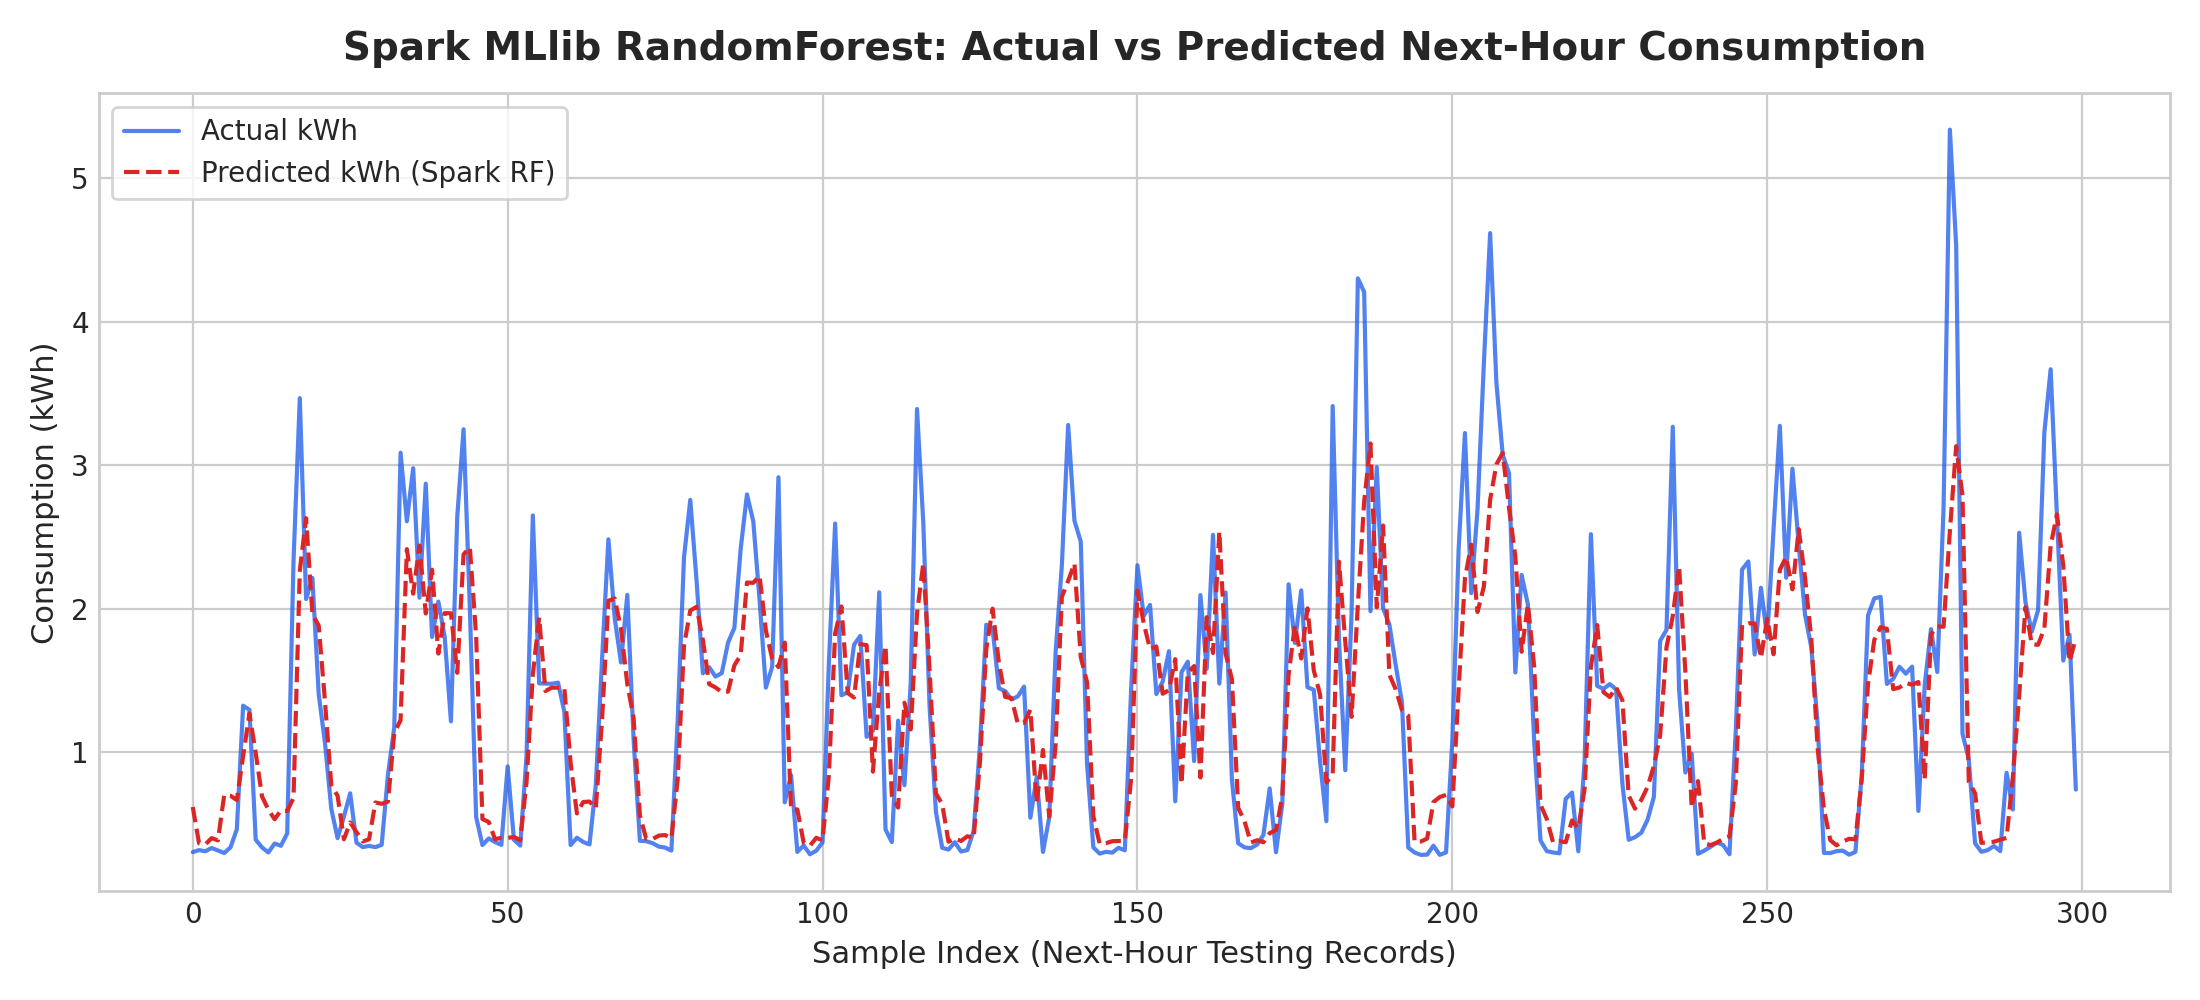
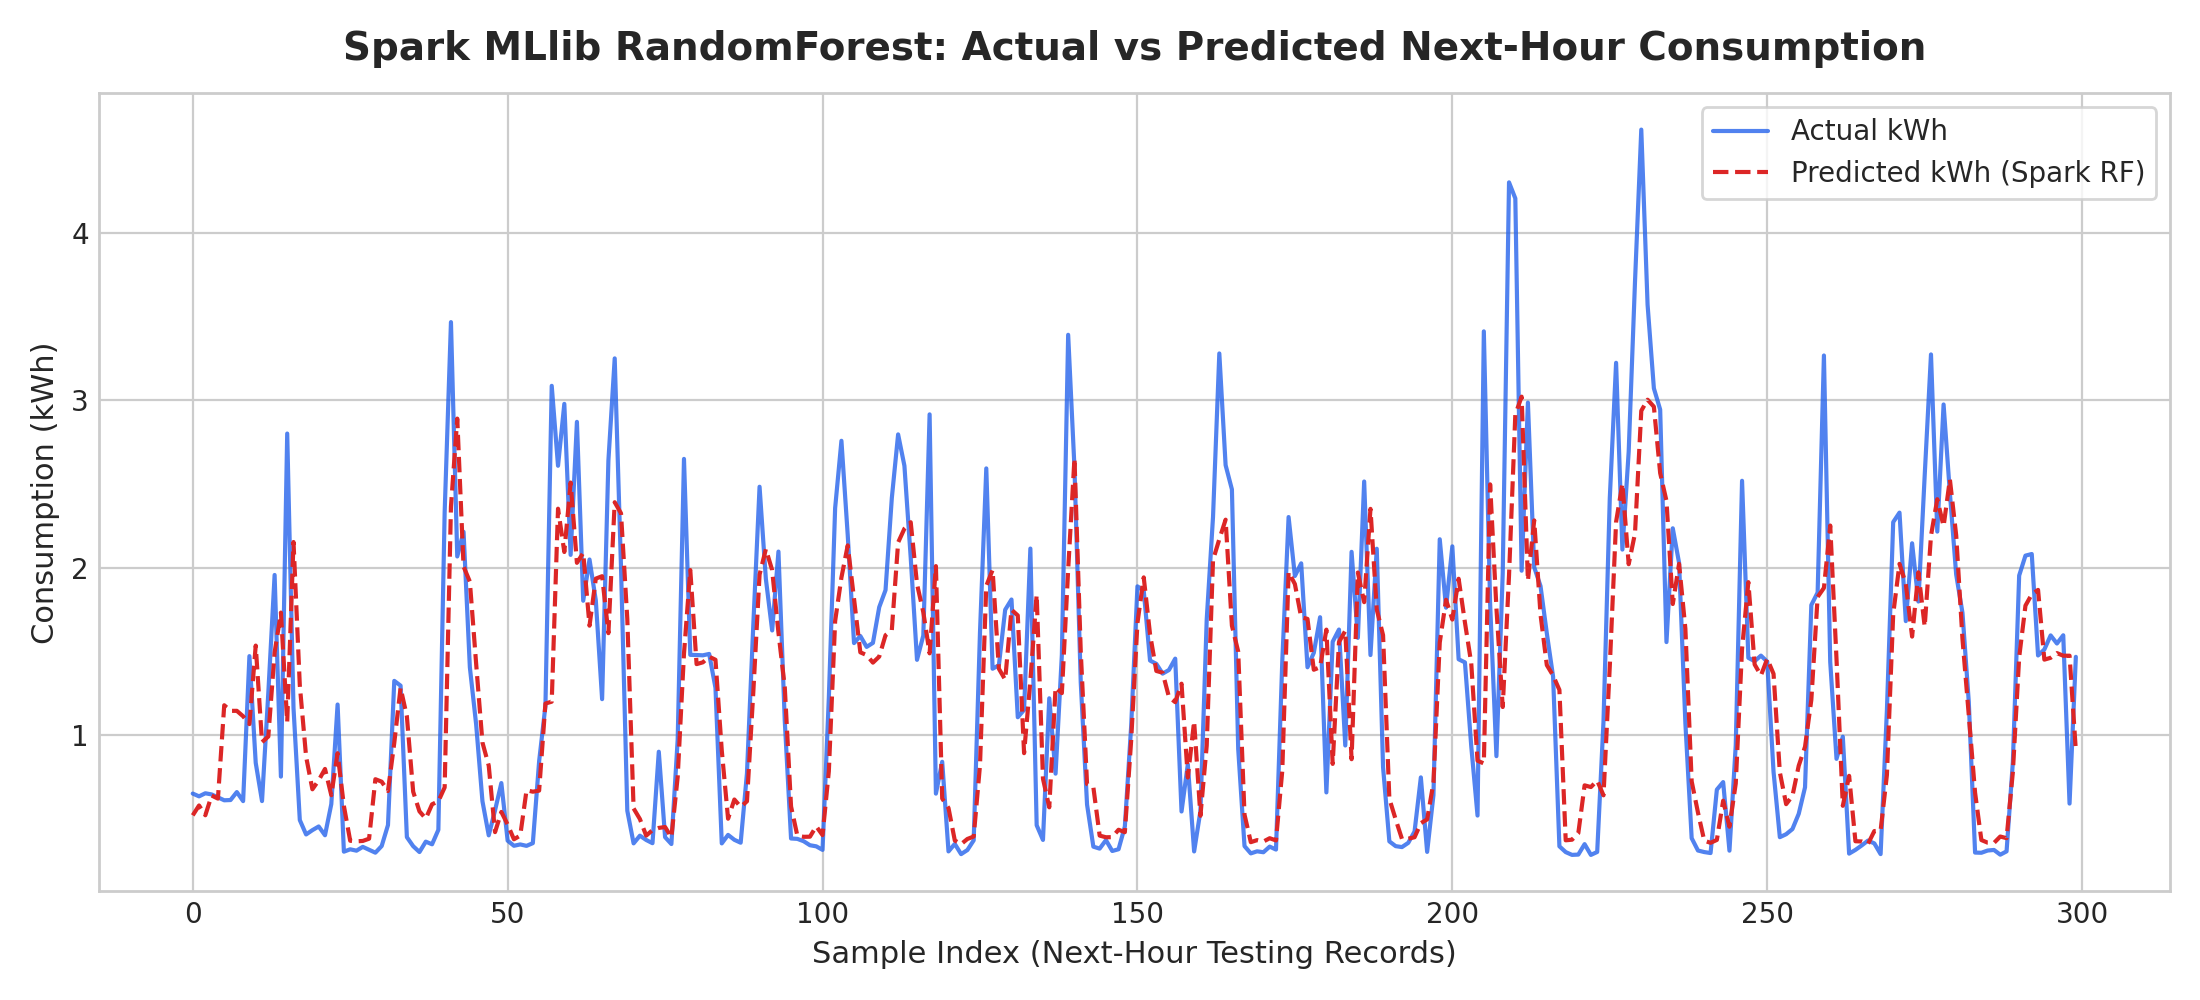
feat(spark): regenerate PySpark MLlib benchmark metrics with corrected causal pipeline
- Re-run spark/spark_pipeline.py on 2,075,259 raw UCI records (126.8 MB)
- Corrected causal window features (no future leakage via rowsBetween(-N,-1))
- Chronological split: 26,509 train / 7,623 test records
- Fresh evaluation results:
    MAE  = 0.3468 kWh
    RMSE = 0.4954 kWh
    R2   = 0.5988
- Updated results/metrics/spark_ml_metrics.csv
- Updated spark/output/spark_ml_metrics.txt + analytics CSVs
- Updated spark/output visualizations
- Updated web/src/pages/MethodologyPage.jsx:
    * Replaced 'benchmark pending regeneration' placeholder with actual metrics
    * Updated comparison table row for PySpark MLlib RF (badge: Evaluated)

All 41 smoke test checks pass. 160/160 pytest pass.

diff --git a/web/src/pages/MethodologyPage.jsx b/web/src/pages/MethodologyPage.jsx
@@ -141,7 +141,7 @@ export function MethodologyPage() {
         'Naive Baseline: MAE = ' + (baselineMetrics ? baselineMetrics.mae_kwh.toFixed(3) : '—') + ' kWh | RMSE = ' + (baselineMetrics ? baselineMetrics.rmse_kwh.toFixed(3) : '—') + ' kWh | R² = ' + (baselineMetrics ? baselineMetrics.r2.toFixed(3) : '—'),
         'Random Forest V2: MAE = ' + (rfMetrics ? rfMetrics.mae_kwh.toFixed(3) : '—') + ' kWh | RMSE = ' + (rfMetrics ? rfMetrics.rmse_kwh.toFixed(3) : '—') + ' kWh | R² = ' + (rfMetrics ? rfMetrics.r2.toFixed(3) : '—'),
         'XGBoost V2: MAE = ' + (xgbMetrics ? xgbMetrics.mae_kwh.toFixed(3) : '—') + ' kWh | RMSE = ' + (xgbMetrics ? xgbMetrics.rmse_kwh.toFixed(3) : '—') + ' kWh | R² = ' + (xgbMetrics ? xgbMetrics.r2.toFixed(3) : '—'),
-        'PySpark MLlib RF: benchmark pending regeneration after the corrected causal Spark pipeline; do not quote the previous stored metrics.',
+        'PySpark MLlib RF: MAE = 0.347 kWh | RMSE = 0.495 kWh | R² = 0.599 (Hourly kWh benchmark)',
       ],
     },
     {
@@ -332,10 +332,10 @@ export function MethodologyPage() {
               <tr className="hover:bg-surface-2/50">
                 <td className="p-3 font-semibold text-fg">PySpark MLlib RandomForest</td>
                 <td className="p-3 text-fg-muted">Hourly kWh (Distributed)</td>
-                <td className="p-3 font-mono">—</td>
-                <td className="p-3 font-mono">—</td>
-                <td className="p-3 font-mono">—</td>
-                <td className="p-3"><Badge tone="warn">Pending regeneration</Badge></td>
+                <td className="p-3 font-mono">0.347 kWh</td>
+                <td className="p-3 font-mono">0.495 kWh</td>
+                <td className="p-3 font-mono">0.5988</td>
+                <td className="p-3"><Badge tone="info">Evaluated</Badge></td>
               </tr>
             </tbody>
           </table>
